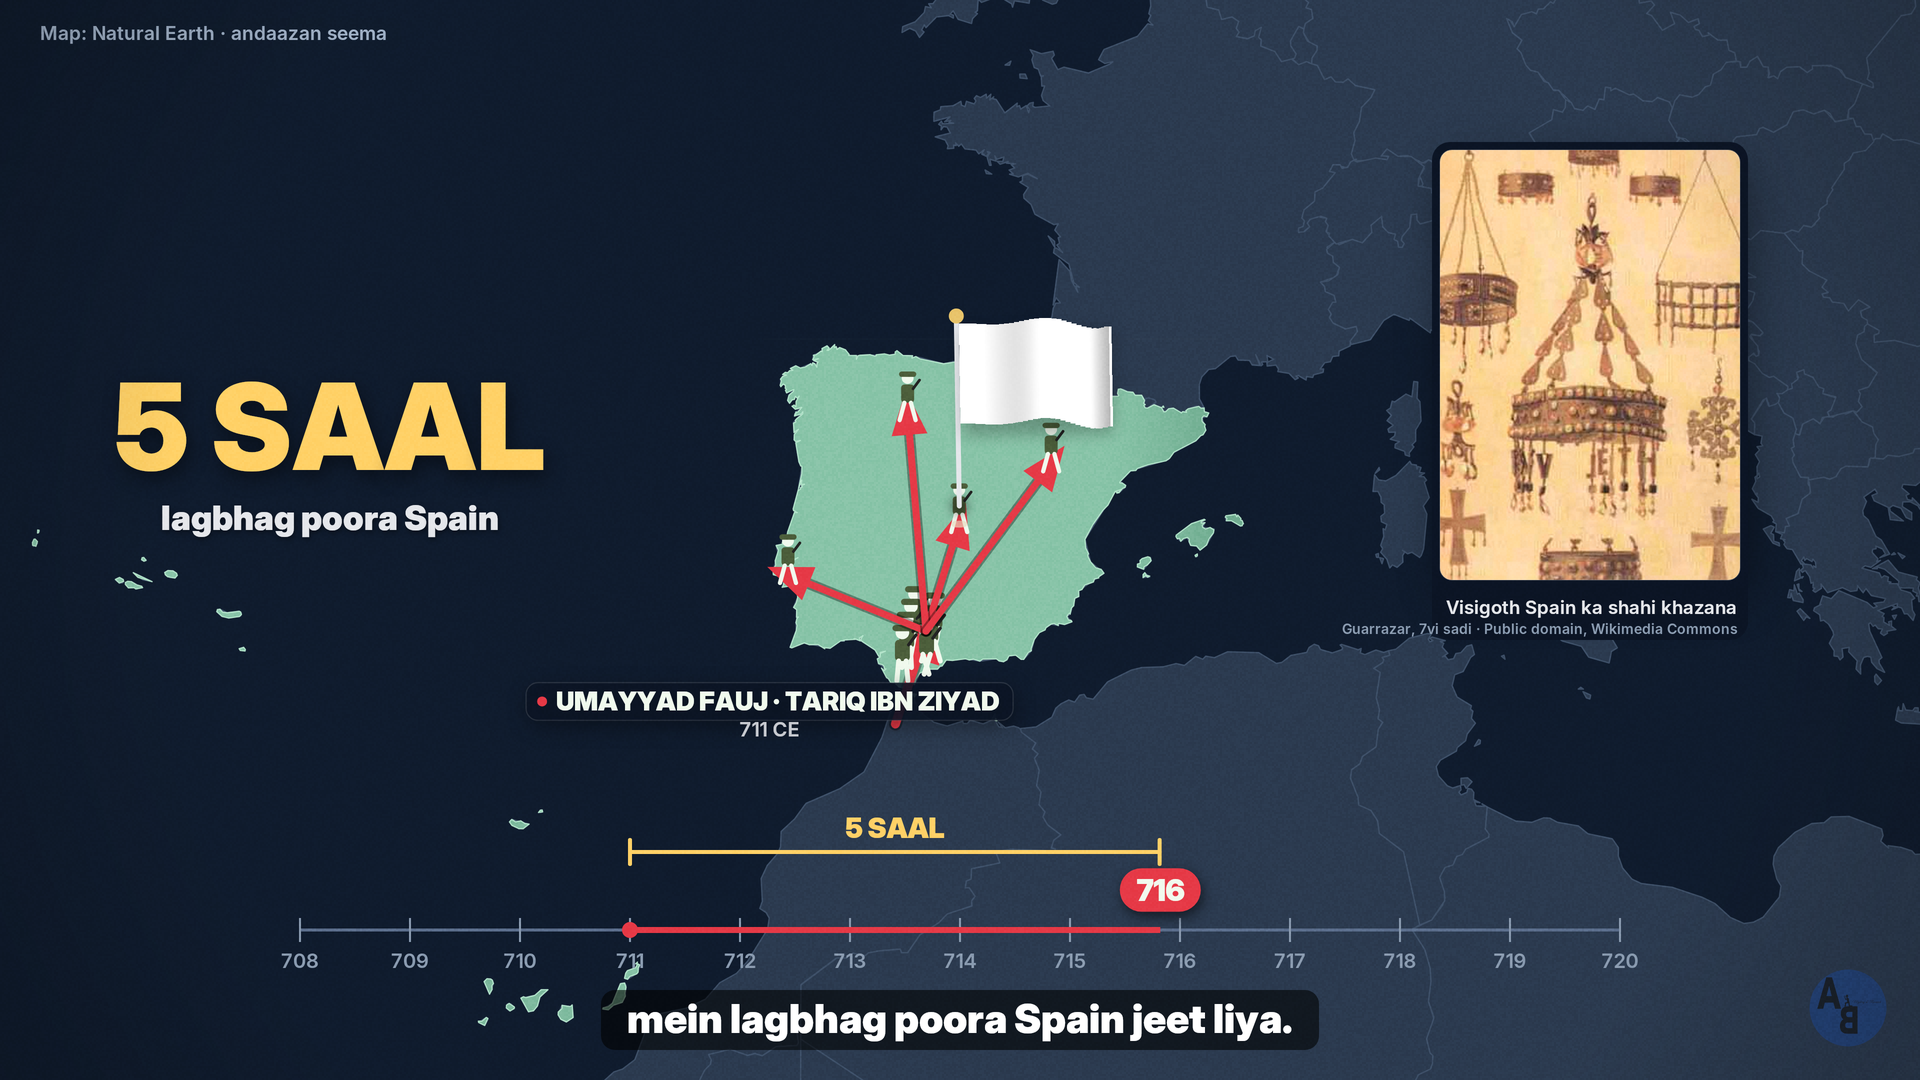
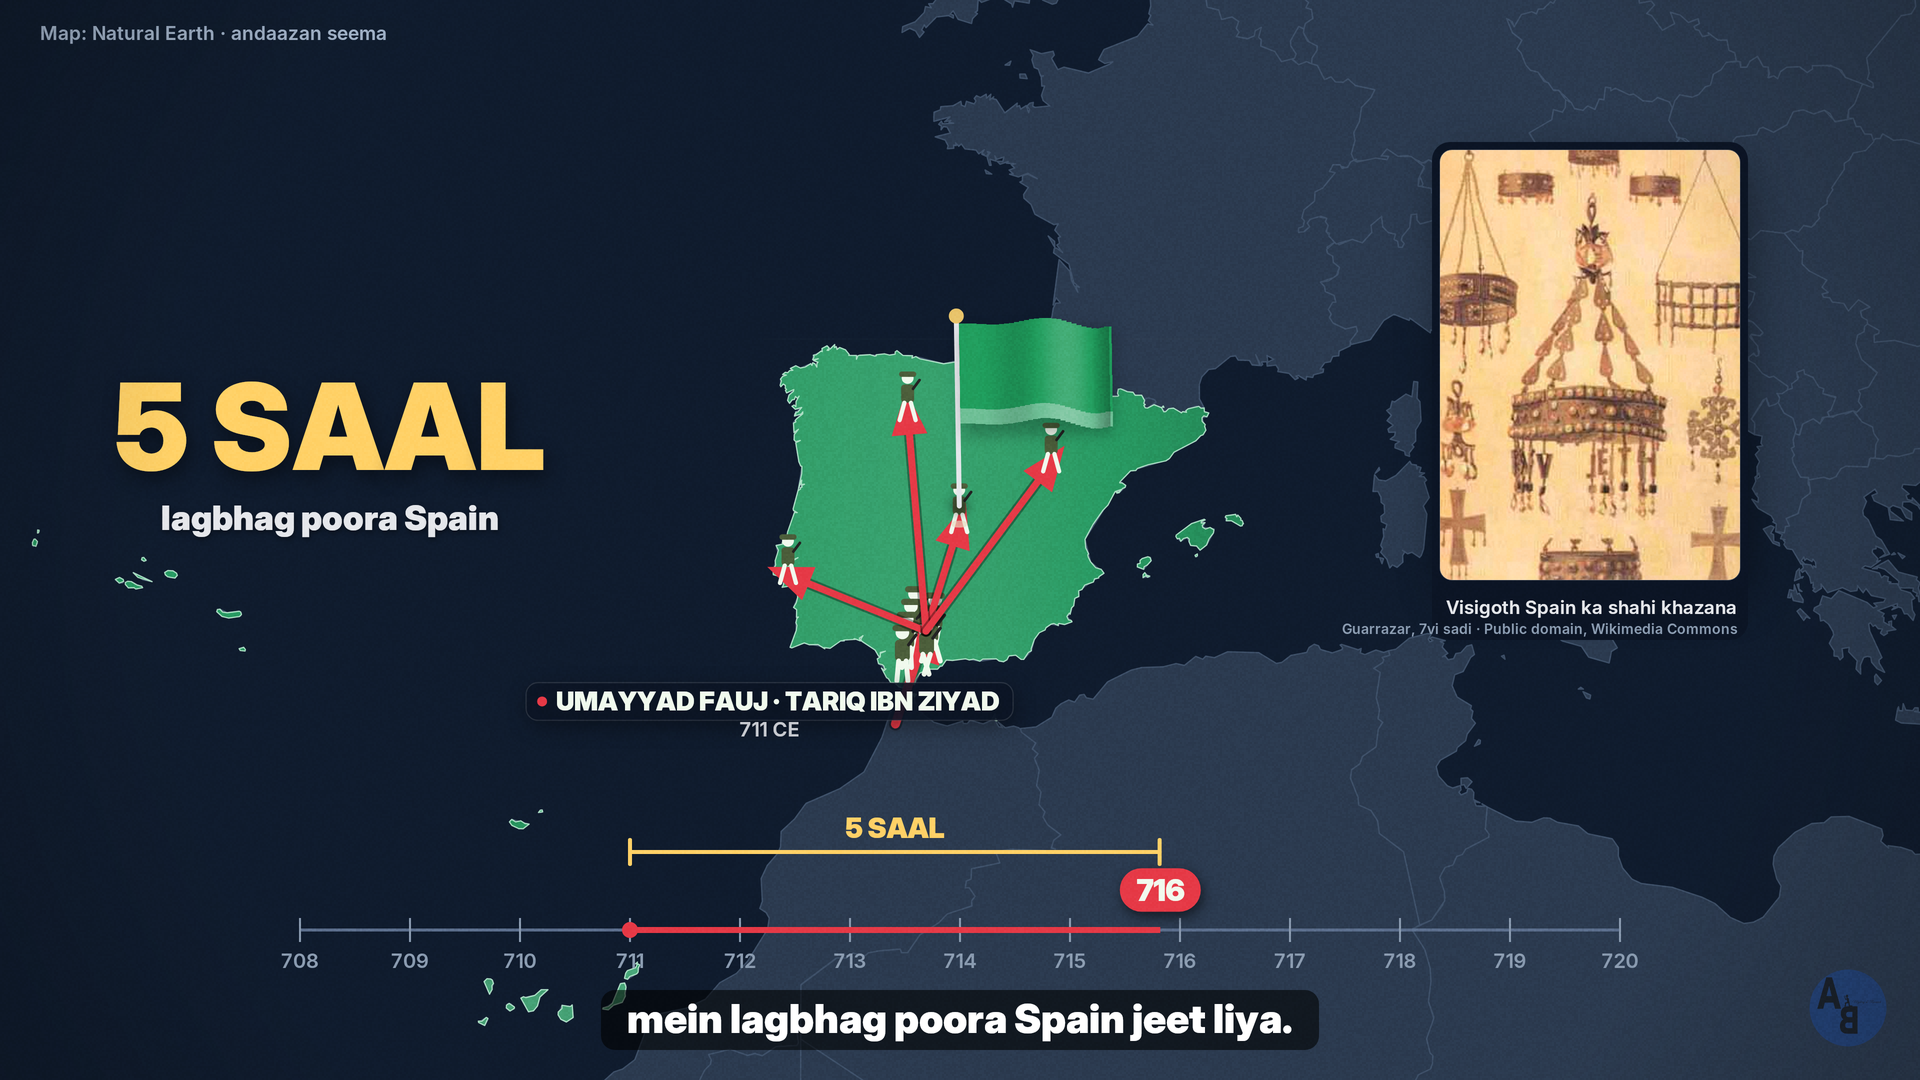
Colour the Umayyad flags green
Claude-Session: https://claude.ai/code/session_01GBN3iNswk98TxCgjZoBu7V

Changed region(s): [[0.4062, 0.275, 0.625, 0.6417], [0.25, 0.9167, 0.2812, 0.9472]]

diff --git a/amrit-borii/khilafat-india/visuals/engine/kh.py b/amrit-borii/khilafat-india/visuals/engine/kh.py
@@ -119,16 +119,16 @@ BANNER = {"iberia": ("#8B1E2D", "cross", "#E9C46A", "VISIGOTH SPAIN"), "sindh": 
           "india": ("TIRANGA", None, None, "HINDUSTAN"), "arabia": ("#FFFFFF", None, None, "ARAB"),
           "syria": ("#FFFFFF", None, None, "DAMASCUS (SHAM)"), "iraq": ("#FFFFFF", None, None, "IRAQ"),
           "centralasia": ("#FFFFFF", None, None, "CENTRAL ASIA"), "c_asia": None, "c_africa": None, "c_europe": None,
-          "umayyad": ("#FFFFFF", None, None, "UMAYYAD · SAFED JHANDA"), "abbasid": ("#111111", None, None, "ABBASI · KAALA JHANDA"),
+          "umayyad": ("#FFFFFF", None, None, "UMAYYAD KHILAFAT"), "abbasid": ("#111111", None, None, "ABBASI KHILAFAT"),
           "kabul": ("#B23A48", "sun", "#F1FAEE", "TURK SHAHI"), "zabul": ("#2A9D8F", "sun", "#F1FAEE", "ZUNBIL"),
           "gujarat": ("#C2185B", "star", "#FFD166", "CHALUKYA"), "rajasthan": ("#D35400", "sun", "#FFE8A3", "MORI / GURJARA"),
           "mp": ("#6A4C93", "star", "#FFD166", "MALWA"), "pratihara": ("#C0392B", "sun", "#FFE8A3", "PRATIHARA"),
-          "desert": None, "caliph": ("#FFFFFF", None, None, "UMAYYAD KHILAFAT · SAFED JHANDA"), "raidzone": None, "c_west": None}
+          "desert": None, "caliph": ("#FFFFFF", None, None, "UMAYYAD KHILAFAT"), "raidzone": None, "c_west": None}
 _BTEX = {}
 def banner_tex(key):
     """plain flag in the region's own colour (user: "har jhande ko uska colour do"); the Umayyad/khilafat banner is
     white and the Abbasid banner black - those two colours are documented"""
-    col = {"umayyad": "#FFFFFF", "caliph": "#FFFFFF", "abbasid": "#111111"}.get(key) or REGCOL.get(key, "#FFFFFF")
+    col = {"umayyad": "#1F9D5C", "caliph": "#1F9D5C", "abbasid": "#111111"}.get(key) or REGCOL.get(key, "#FFFFFF")
     if col in _BTEX: return _BTEX[col]
     sf = skia.Surface(600, 400); cc = sf.getCanvas(); cc.clear(hexc(col))
     if col not in ("#FFFFFF", "#111111"): cc.drawRect(skia.Rect(0, 340, 600, 400), paint(lighten(col, 0.35)))
@@ -661,7 +661,7 @@ def s01(c, t):
         rp = seg(tv, HP + 0.05, HP + 0.8)
         if 0 < rp < 1: c.drawOval(skia.Rect(x - 90 * rp, y - 22 * rp, x + 90 * rp, y + 22 * rp), paint("#E9DCC0", int(180 * (1 - rp)), stroke=4))
         c.save(); c.translate(0, (1 - ease_out(kf)) * -160); pole_flag(c, x, y, "umayyad", tv, clamp(kf * 1.5), 1.25, False); c.restore()
-        label(c, "UMAYYAD JHANDA GADA", x + 40, y + 70, seg(tv, HP + 0.2, HP + 0.6), 26, border="#F4F1EA")
+        label(c, "UMAYYAD KA JHANDA GADA", x + 40, y + 70, seg(tv, HP + 0.2, HP + 0.6), 26, border="#F4F1EA")
     SFX_MARK(kw(u_spain, "fauj") - 0.2, "whoosh_long", -18); SFX_MARK(HP + 0.05, "stamp", -14); SFX_MARK(HP + 0.05, "boom", -20)
     footnote(c, "Map: Natural Earth · andaazan seema")
     SFX_MARK(0.3, "hit", -16)
